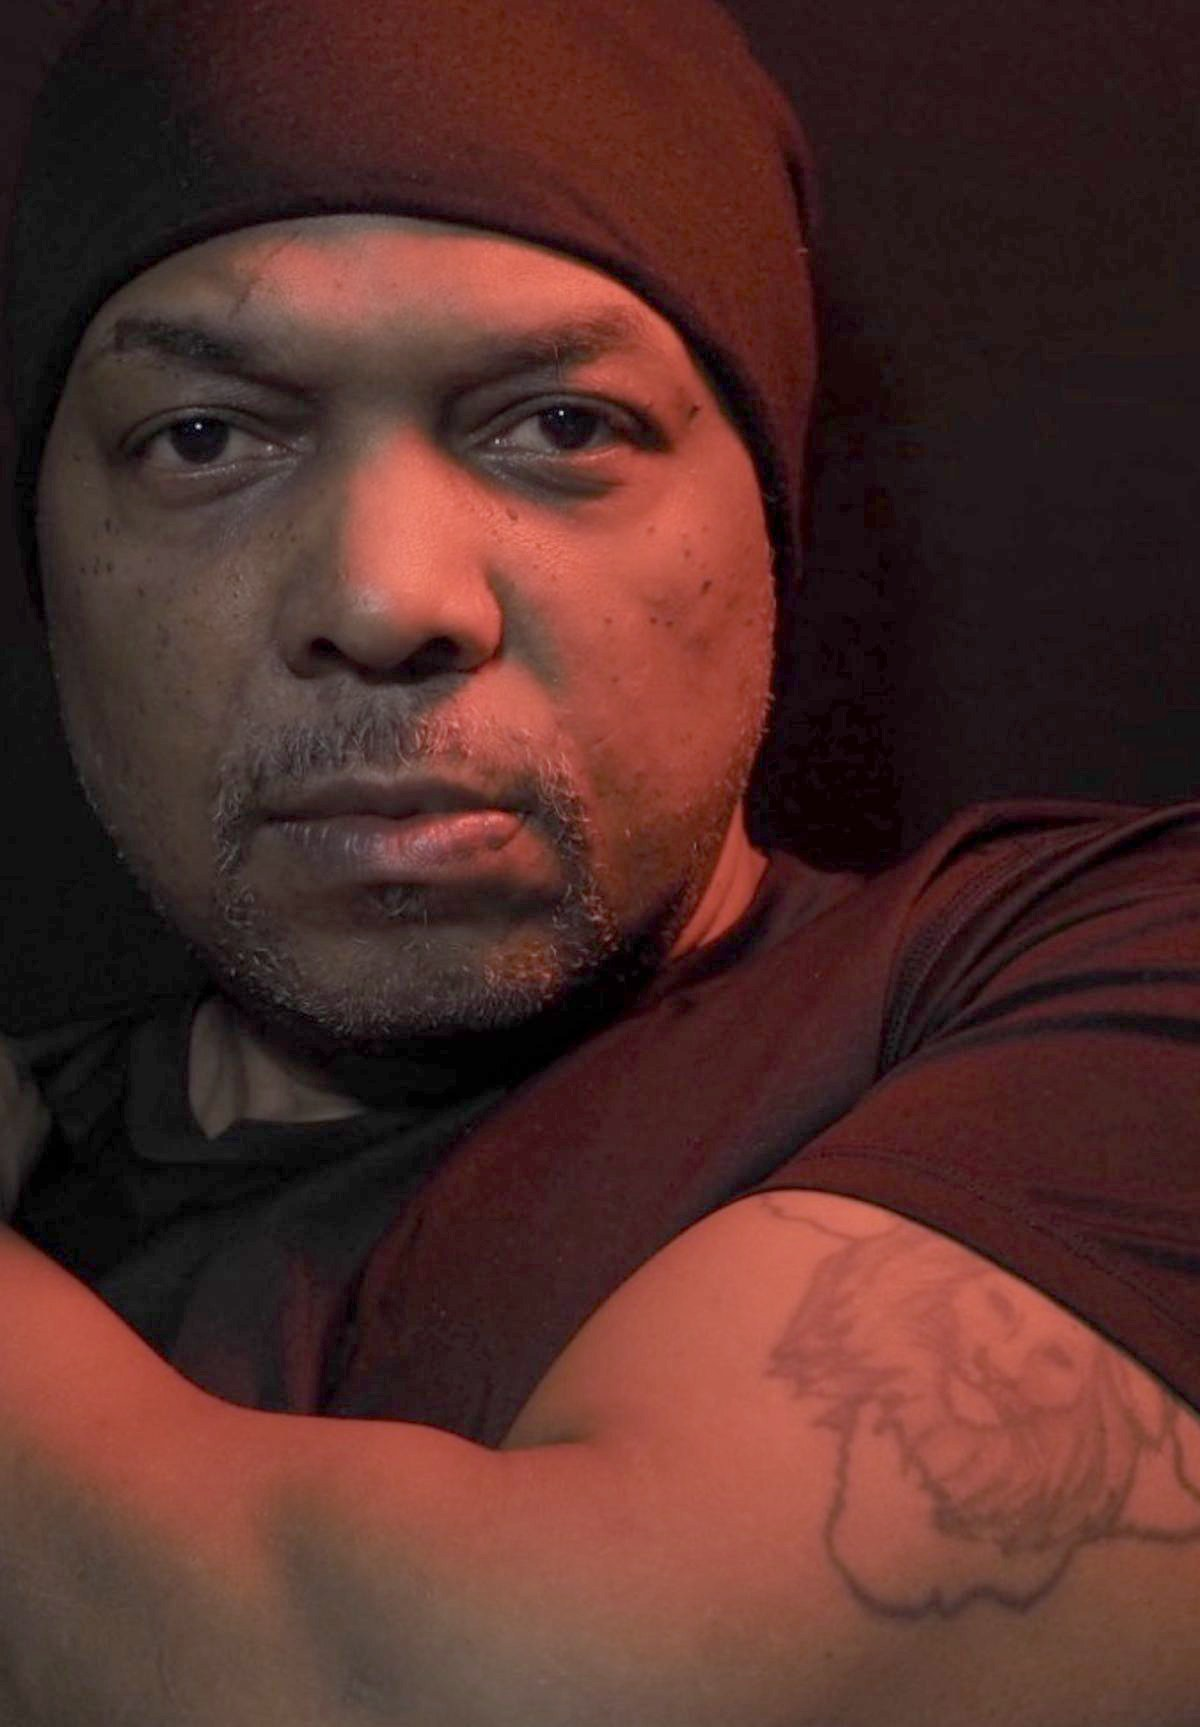
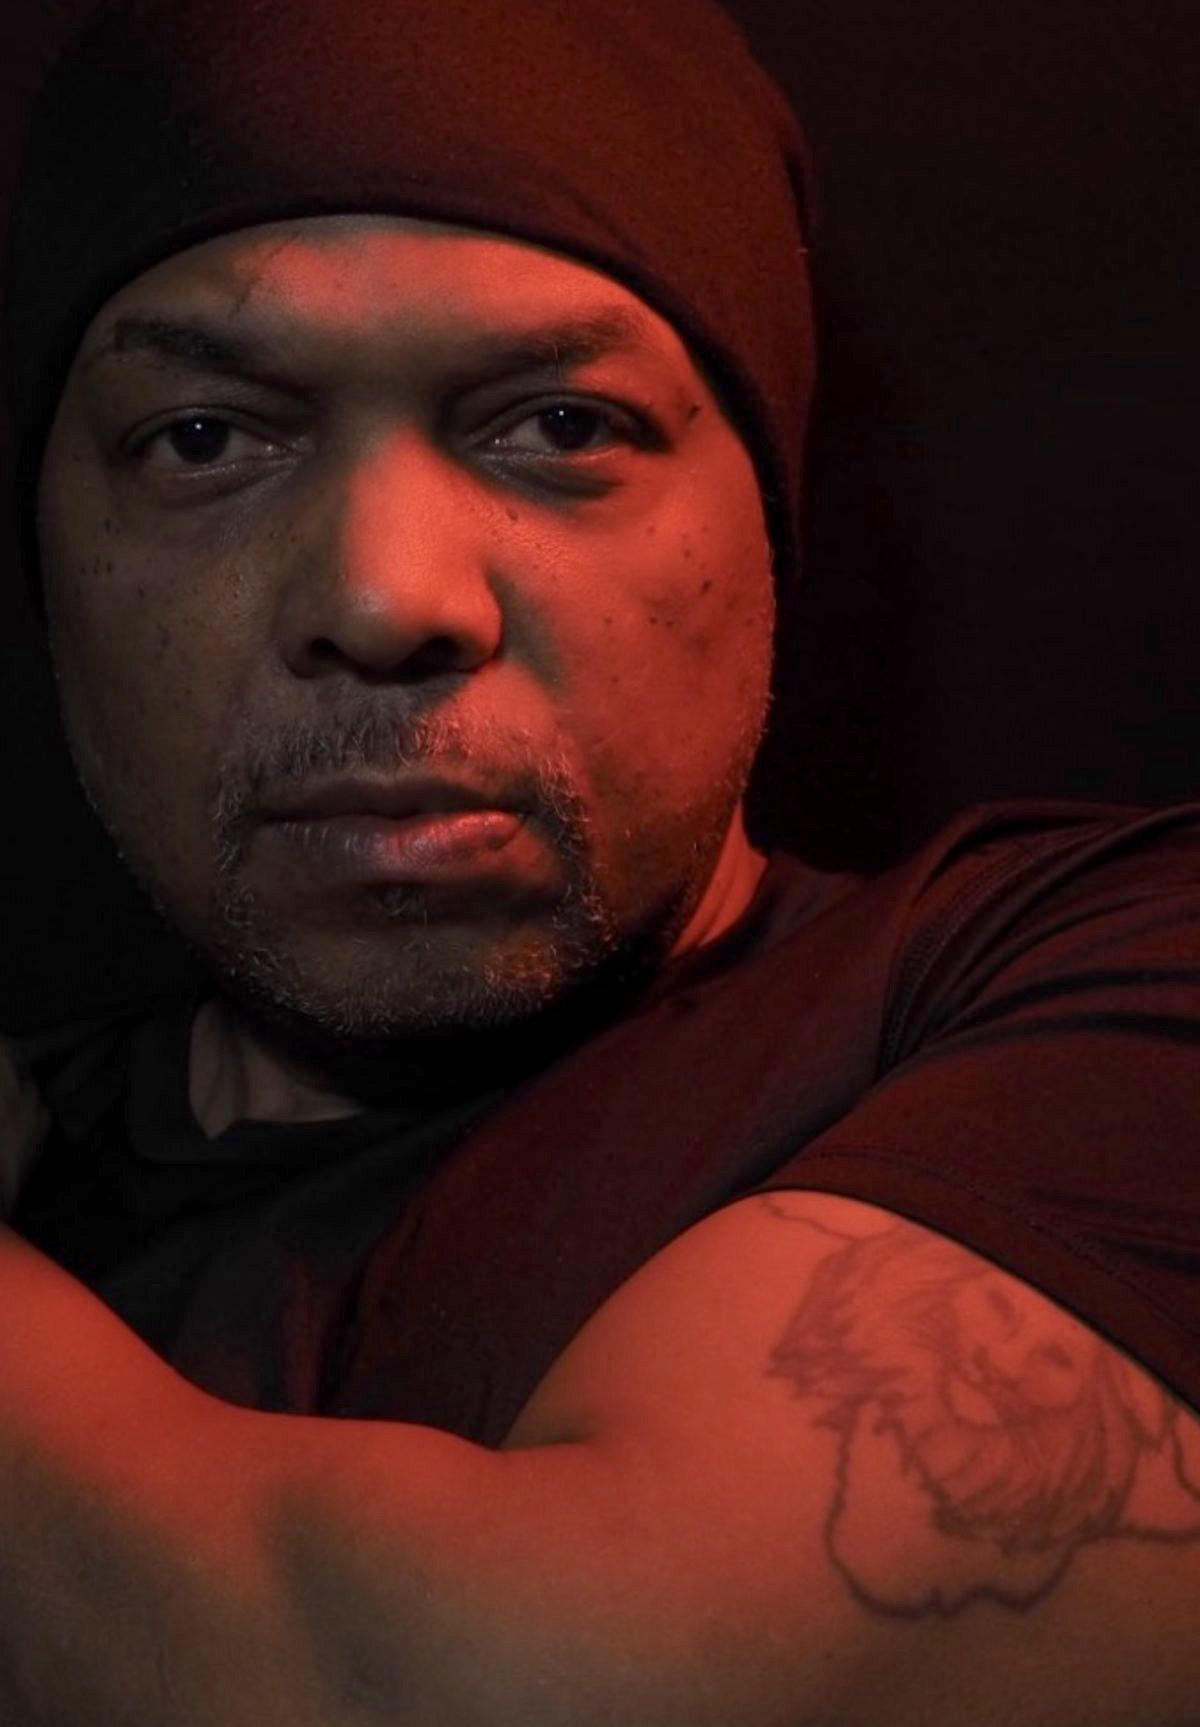
Rebalance hero exposure and About portrait size
Claude-Session: https://claude.ai/code/session_019GhfoUxYrq7FiaVx9WaXrX

diff --git a/index.html b/index.html
@@ -190,13 +190,13 @@ section{padding:clamp(72px,11vw,150px) 0;position:relative}
 /* about */
 .about{background:var(--bg-2);border-top:1px solid var(--line)}
 .about-grid{display:grid;grid-template-columns:.9fr 1.1fr;gap:clamp(30px,6vw,90px);align-items:center}
-.about-img{aspect-ratio:1200/1727;width:auto;height:auto;max-width:100%;max-height:min(540px,72vh);object-fit:contain;justify-self:center;border-radius:6px;background:linear-gradient(160deg,#2c2118,#0e0a09)}
+.about-img{aspect-ratio:1200/1727;width:auto;height:auto;max-width:100%;max-height:min(620px,80vh);object-fit:contain;justify-self:center;border-radius:6px;background:linear-gradient(160deg,#2c2118,#0e0a09)}
 .about-copy p{color:#cfc4bf;margin-top:18px;max-width:560px}
 .about-copy h2{margin:14px 0 8px}
 .rule{margin-top:28px;padding-left:20px;border-left:2px solid var(--accent);font-family:var(--serif);font-size:1.5rem;line-height:1.3;color:var(--text);max-width:520px}
 .bio{margin-top:32px;border:1px solid var(--line);border-radius:8px;padding:22px 24px}
 .bio p{margin-top:10px;font-size:.92rem;color:var(--muted)}
-@media(max-width:860px){.about-grid{grid-template-columns:1fr}.about-img{max-height:440px}}
+@media(max-width:860px){.about-grid{grid-template-columns:1fr}.about-img{max-height:500px}}
 
 /* analyst desk */
 .desk{padding:46px 0;border-block:1px solid var(--line);background:#0e0909}
